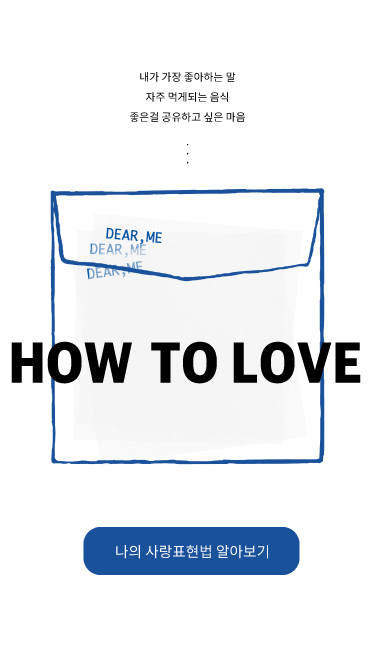
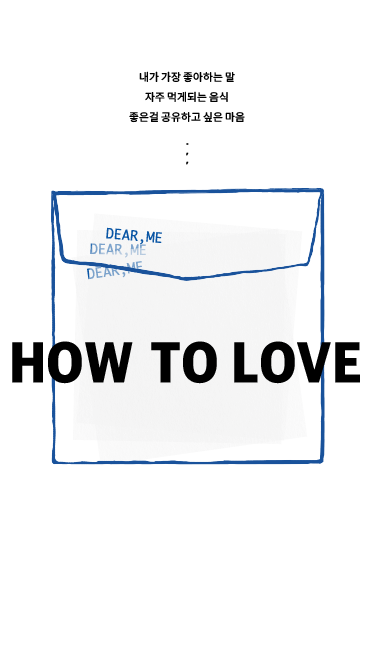
update FILES

diff --git a/index.html b/index.html
@@ -13,7 +13,11 @@
 
 <body>
   <a href="#" id="section_0_1" class="panels" onclick="fnMovePage('#section_0_1', '#section_1')">
-
+	<div class="msform" style="height: 100%;">
+	      <div id="step_bottom">
+	      	<button tyoe="button" id="step_btn" class="btn">나의 사랑표현방법 찾아보기</button>
+	      </div>
+	 </div>
   </a>
   <div id="section_1" class="panels none">
 	<div id="section_scroll">

diff --git a/css/style.css b/css/style.css
@@ -502,3 +502,16 @@ body {
   font-weight: 40;
   line-height: 1.8;
 }
+
+#step_bottom {
+	display: flex;
+    align-items: flex-end;
+    height: 100%;
+    justify-content: center;
+}
+
+#step_btn {
+	height: 50px;
+    width: 400px;
+    margin-bottom: 50px;
+}
